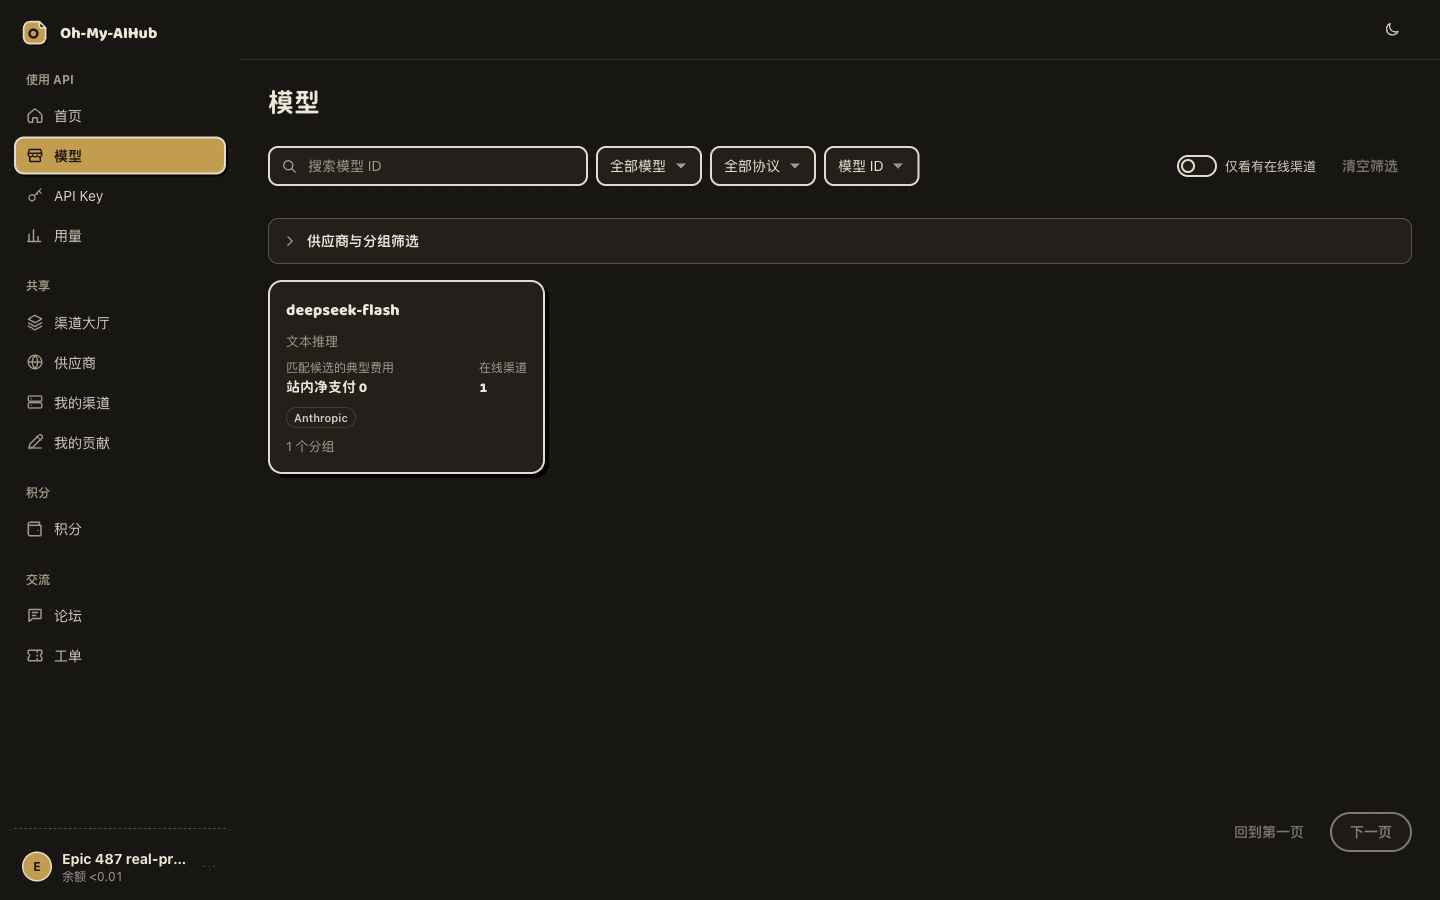
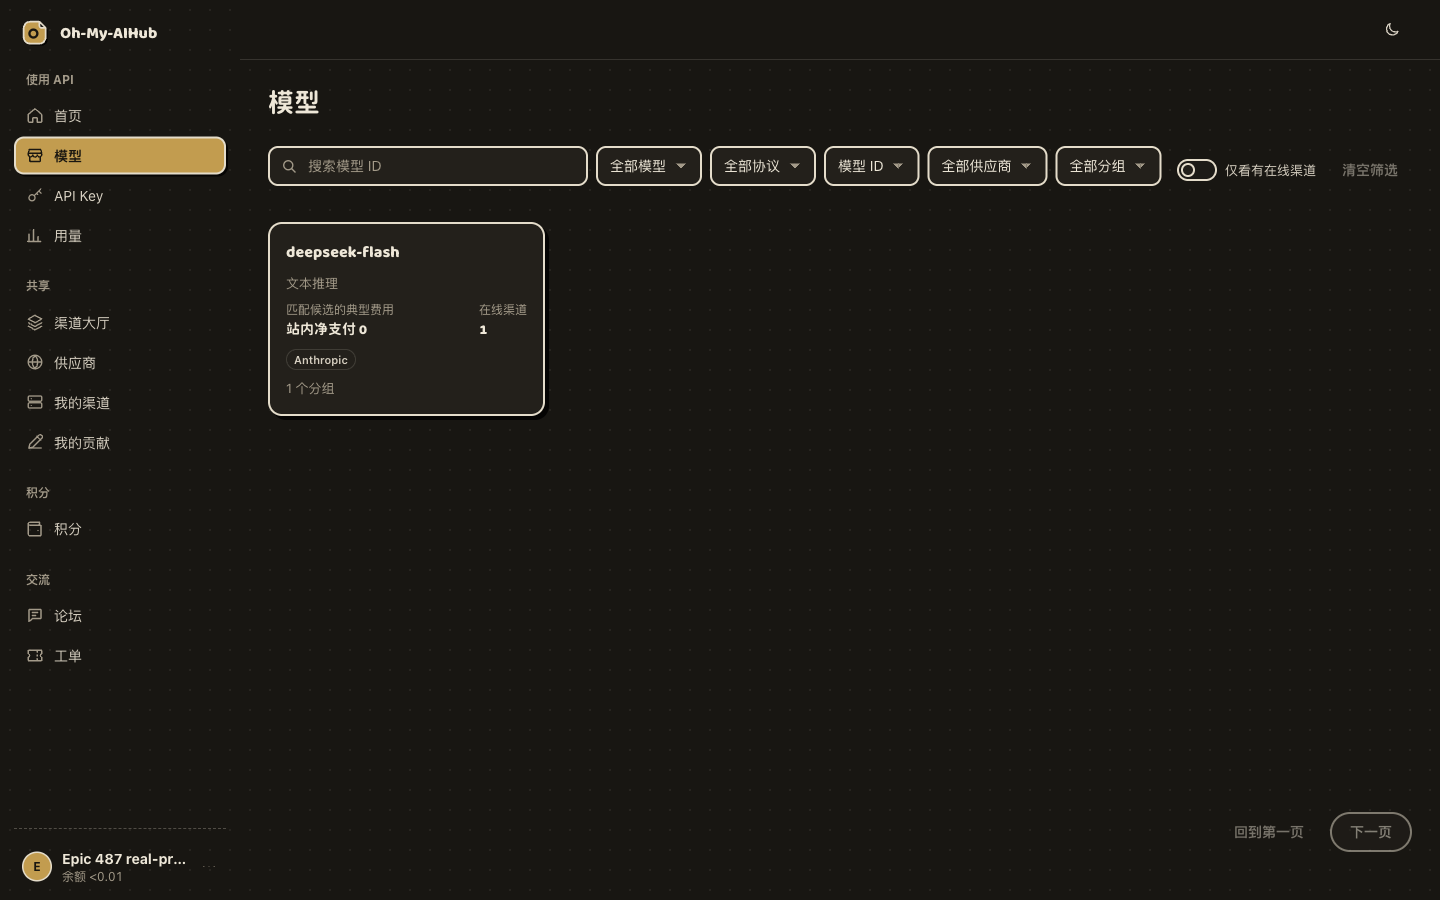
fix(ui): 模型页的供应商与分组筛选并入筛选行
供应商与分组原来藏在「供应商与分组筛选」折叠区里，和其余筛选项分成两行。
现在两个下拉进入顶部筛选行（排序之后），折叠区移除；开关与清空筛选保持行尾，
一行放不下时筛选控件在左侧换行、开关留在右上，390 下仍按筛选控件换行后单独成行。
更新模型页截图，并补充「不再出现供应商与分组折叠区」的断言。

diff --git a/frontend/src/market/Pages.tsx b/frontend/src/market/Pages.tsx
@@ -57,13 +57,9 @@ export function MarketModelGrid({ groupID, supplierID }: { groupID?: string; sup
       <SelectField hideLabel label="模型类型" value={params.get('model_type') ?? ''} onChange={e => update('model_type', e.target.value)}><option value="">全部模型</option><option value="text">文本推理</option><option value="image">图片生成</option></SelectField>
       <SelectField hideLabel label="协议入口" value={params.get('protocol') ?? ''} onChange={e => update('protocol', e.target.value)}><option value="">全部协议</option>{Object.entries(protocols).map(([id, label]) => <option key={id} value={id}>{label}</option>)}</SelectField>
       <SelectField hideLabel label="排序" value={params.get('sort') ?? 'id'} onChange={e => update('sort', e.target.value)}><option value="id">模型 ID</option><option value="price">典型费用</option></SelectField>
+      {!supplierID && <SelectField hideLabel label="供应商" value={params.get('supplier_id') ?? ''} onChange={e => update('supplier_id', e.target.value)}><option value="">全部供应商</option>{suppliers.data?.items.map(s => <option key={s.id} value={s.id}>{s.name}</option>)}</SelectField>}
+      {!groupID && <SelectField hideLabel label="分组" value={params.get('group_id') ?? ''} onChange={e => update('group_id', e.target.value)}><option value="">全部分组</option>{suppliers.data?.groups.filter(g => !effective.get('supplier_id') || g.supplier_id === effective.get('supplier_id')).map(g => <option key={g.id} value={g.id}>{g.name}</option>)}</SelectField>}
     </Toolbar></div>
-    <Disclosure title="供应商与分组筛选">
-      <div className="model-filters">
-        {!supplierID && <SelectField hideLabel label="供应商" value={params.get('supplier_id') ?? ''} onChange={e => update('supplier_id', e.target.value)}><option value="">全部供应商</option>{suppliers.data?.items.map(s => <option key={s.id} value={s.id}>{s.name}</option>)}</SelectField>}
-        {!groupID && <SelectField hideLabel label="分组" value={params.get('group_id') ?? ''} onChange={e => update('group_id', e.target.value)}><option value="">全部分组</option>{suppliers.data?.groups.filter(g => !effective.get('supplier_id') || g.supplier_id === effective.get('supplier_id')).map(g => <option key={g.id} value={g.id}>{g.name}</option>)}</SelectField>}
-      </div>
-    </Disclosure>
     <QueryBoundary query={query} errorFallback="模型目录加载失败">{data => <>
       <p className="visually-hidden" role="status">共 {data.total} 个模型</p>
       {data.price_sort_fallback && <Notice tone="info">报价的计量单位不同，当前按模型 ID 排序。</Notice>}

diff --git a/frontend/src/models/models.css b/frontend/src/models/models.css
@@ -94,10 +94,11 @@
   .routing-handle { width: 44px; height: 44px; }
 }
 
-.model-filters { display: grid; grid-template-columns: repeat(4, minmax(0, 1fr)); gap: var(--space-3); }
-@media (max-width: 960px) { .model-filters { grid-template-columns: repeat(2, minmax(0, 1fr)); } }
-@media (max-width: 480px) { .model-filters { grid-template-columns: minmax(0, 1fr); } }
-
 /* 只影响结果数量的开关跟在筛选控件行尾，不单独占一行 */
-.model-filter-toolbar .toolbar-end { gap: var(--space-3); }
-@media (max-width: 767px) { .model-filter-toolbar .toolbar-end { justify-content: space-between; } }
+.model-filter-toolbar .toolbar { align-items: flex-start; flex-wrap: nowrap; }
+.model-filter-toolbar .toolbar-main { min-width: 0; flex: 1 1 auto; }
+.model-filter-toolbar .toolbar-end { flex: 0 0 auto; margin-top: 4px; gap: var(--space-3); }
+@media (max-width: 767px) {
+  .model-filter-toolbar .toolbar { align-items: stretch; }
+  .model-filter-toolbar .toolbar-end { justify-content: space-between; margin-top: 0; }
+}

diff --git a/frontend/src/market/Pages.test.tsx b/frontend/src/market/Pages.test.tsx
@@ -27,6 +27,8 @@ describe('approved group market presentation',()=>{
     expect(html).toContain('全部分组')
     expect(html).toContain('仅看有在线渠道')
     expect(html).toContain('aria-label="分页"')
+    // 供应商/分组与其余筛选项同一行，不再占一个可折叠分区
+    expect(html).not.toContain('供应商与分组筛选')
     // 结果数只留给读屏；筛选项不再在控件上方重复 label
     expect(html).toContain('visually-hidden')
     expect(html).not.toMatch(/field-label[^>]*>(模型类型|协议入口|排序|供应商|分组)</)
